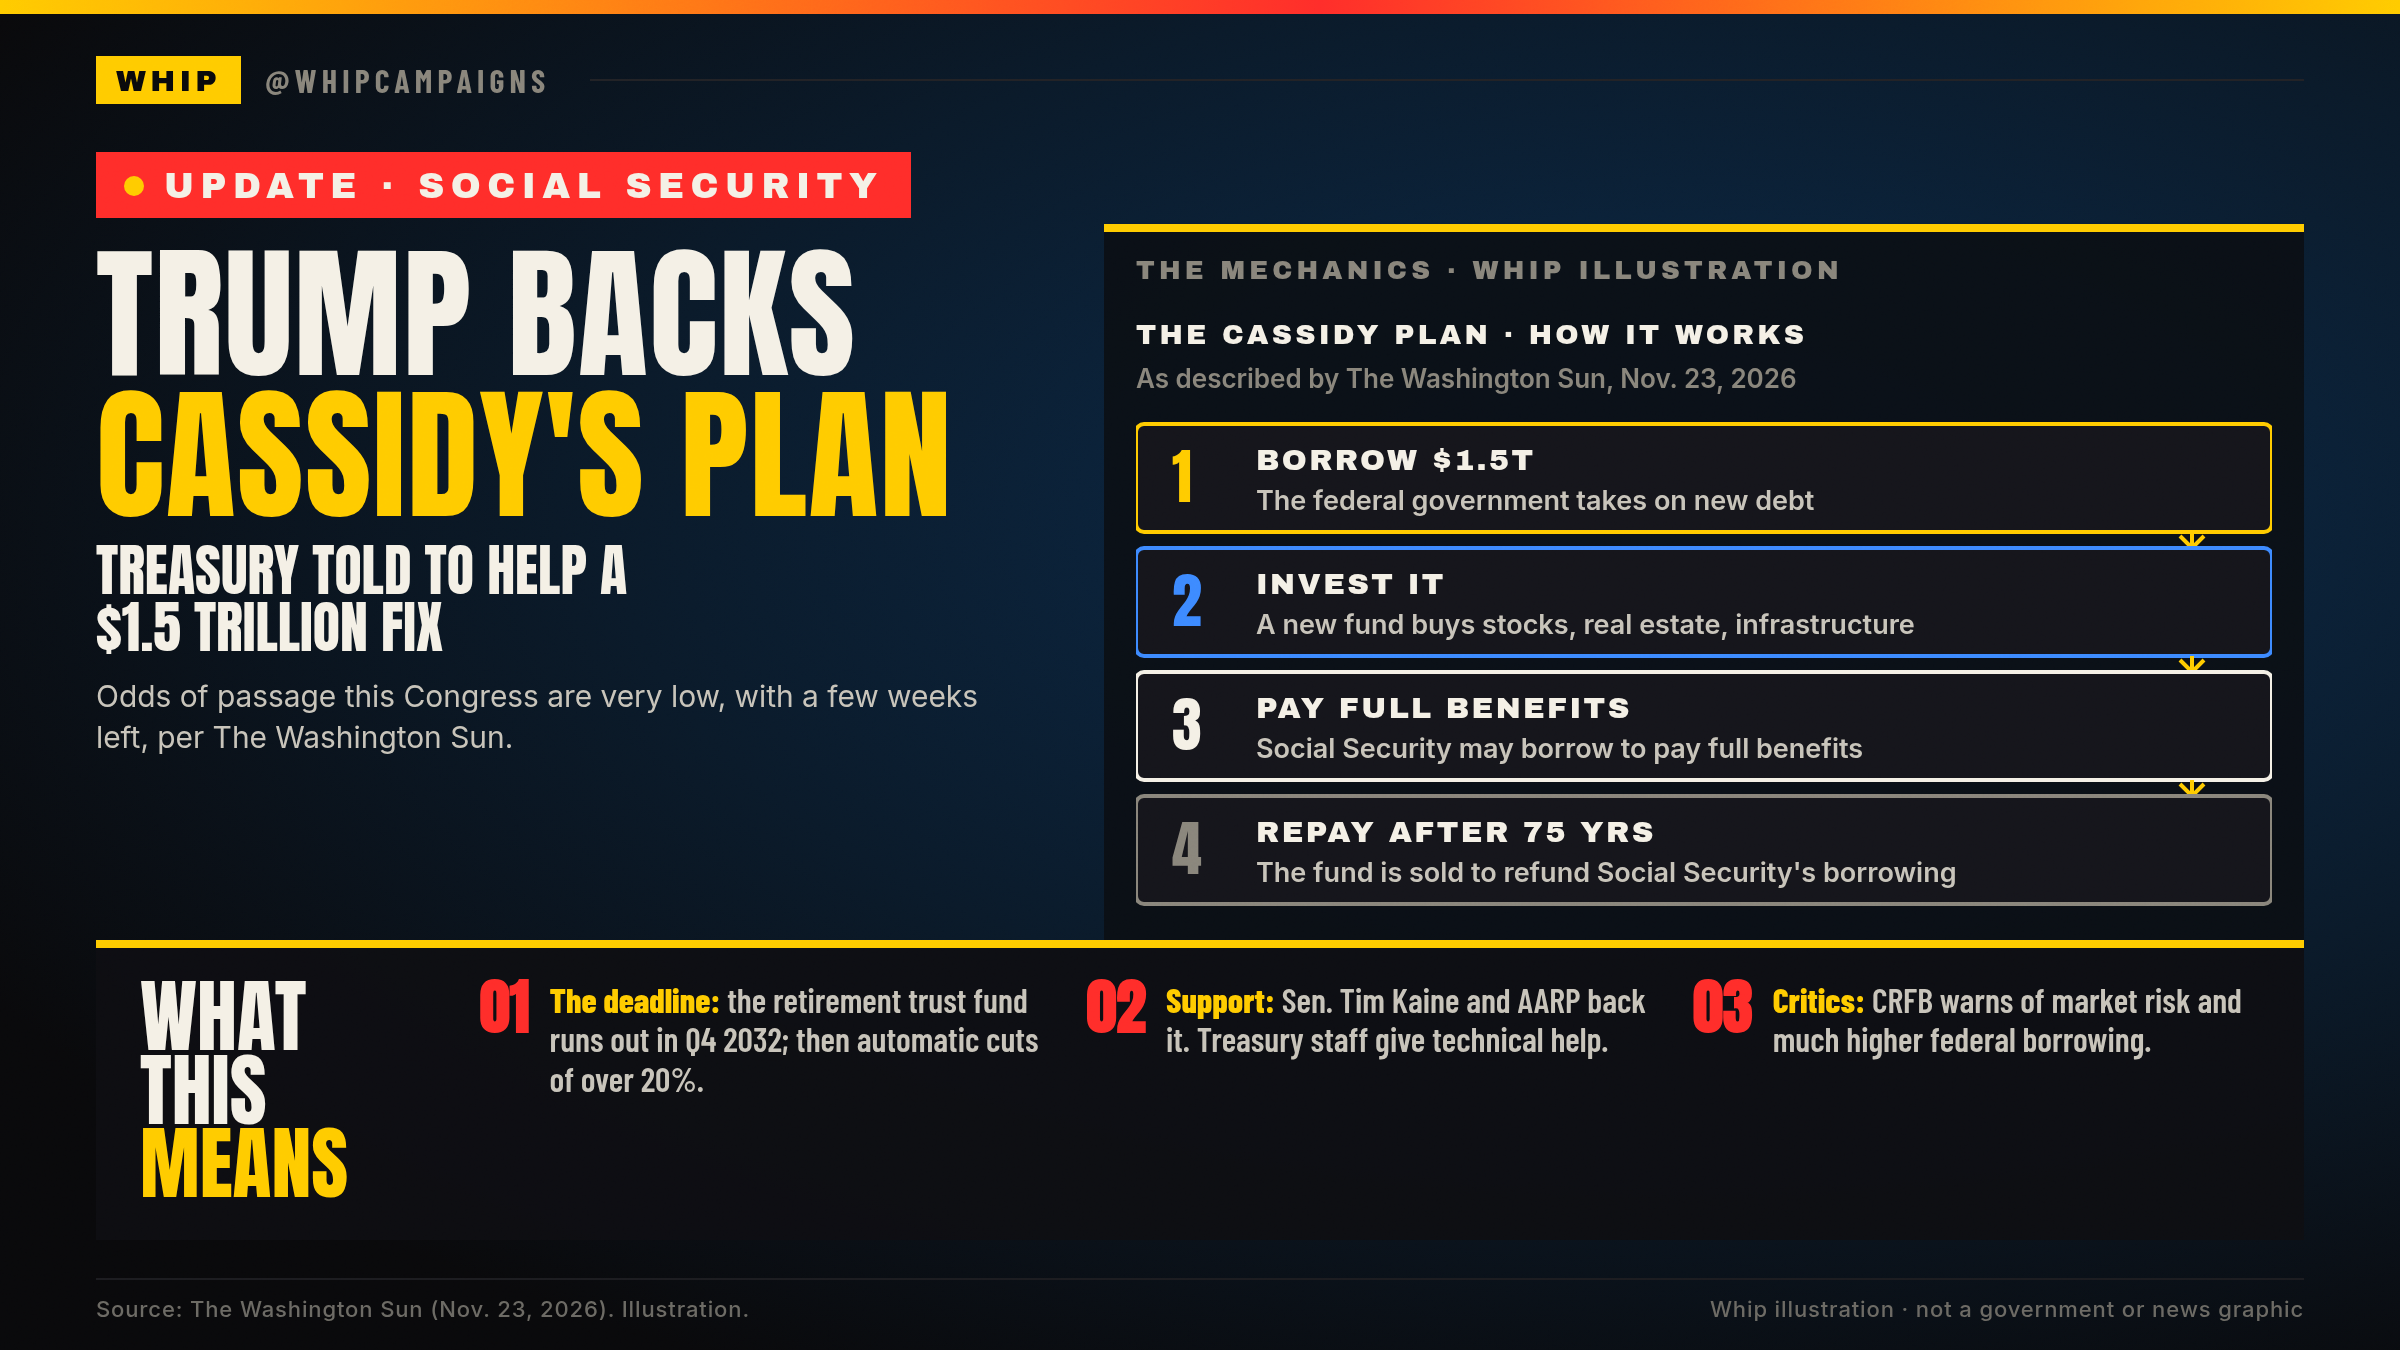
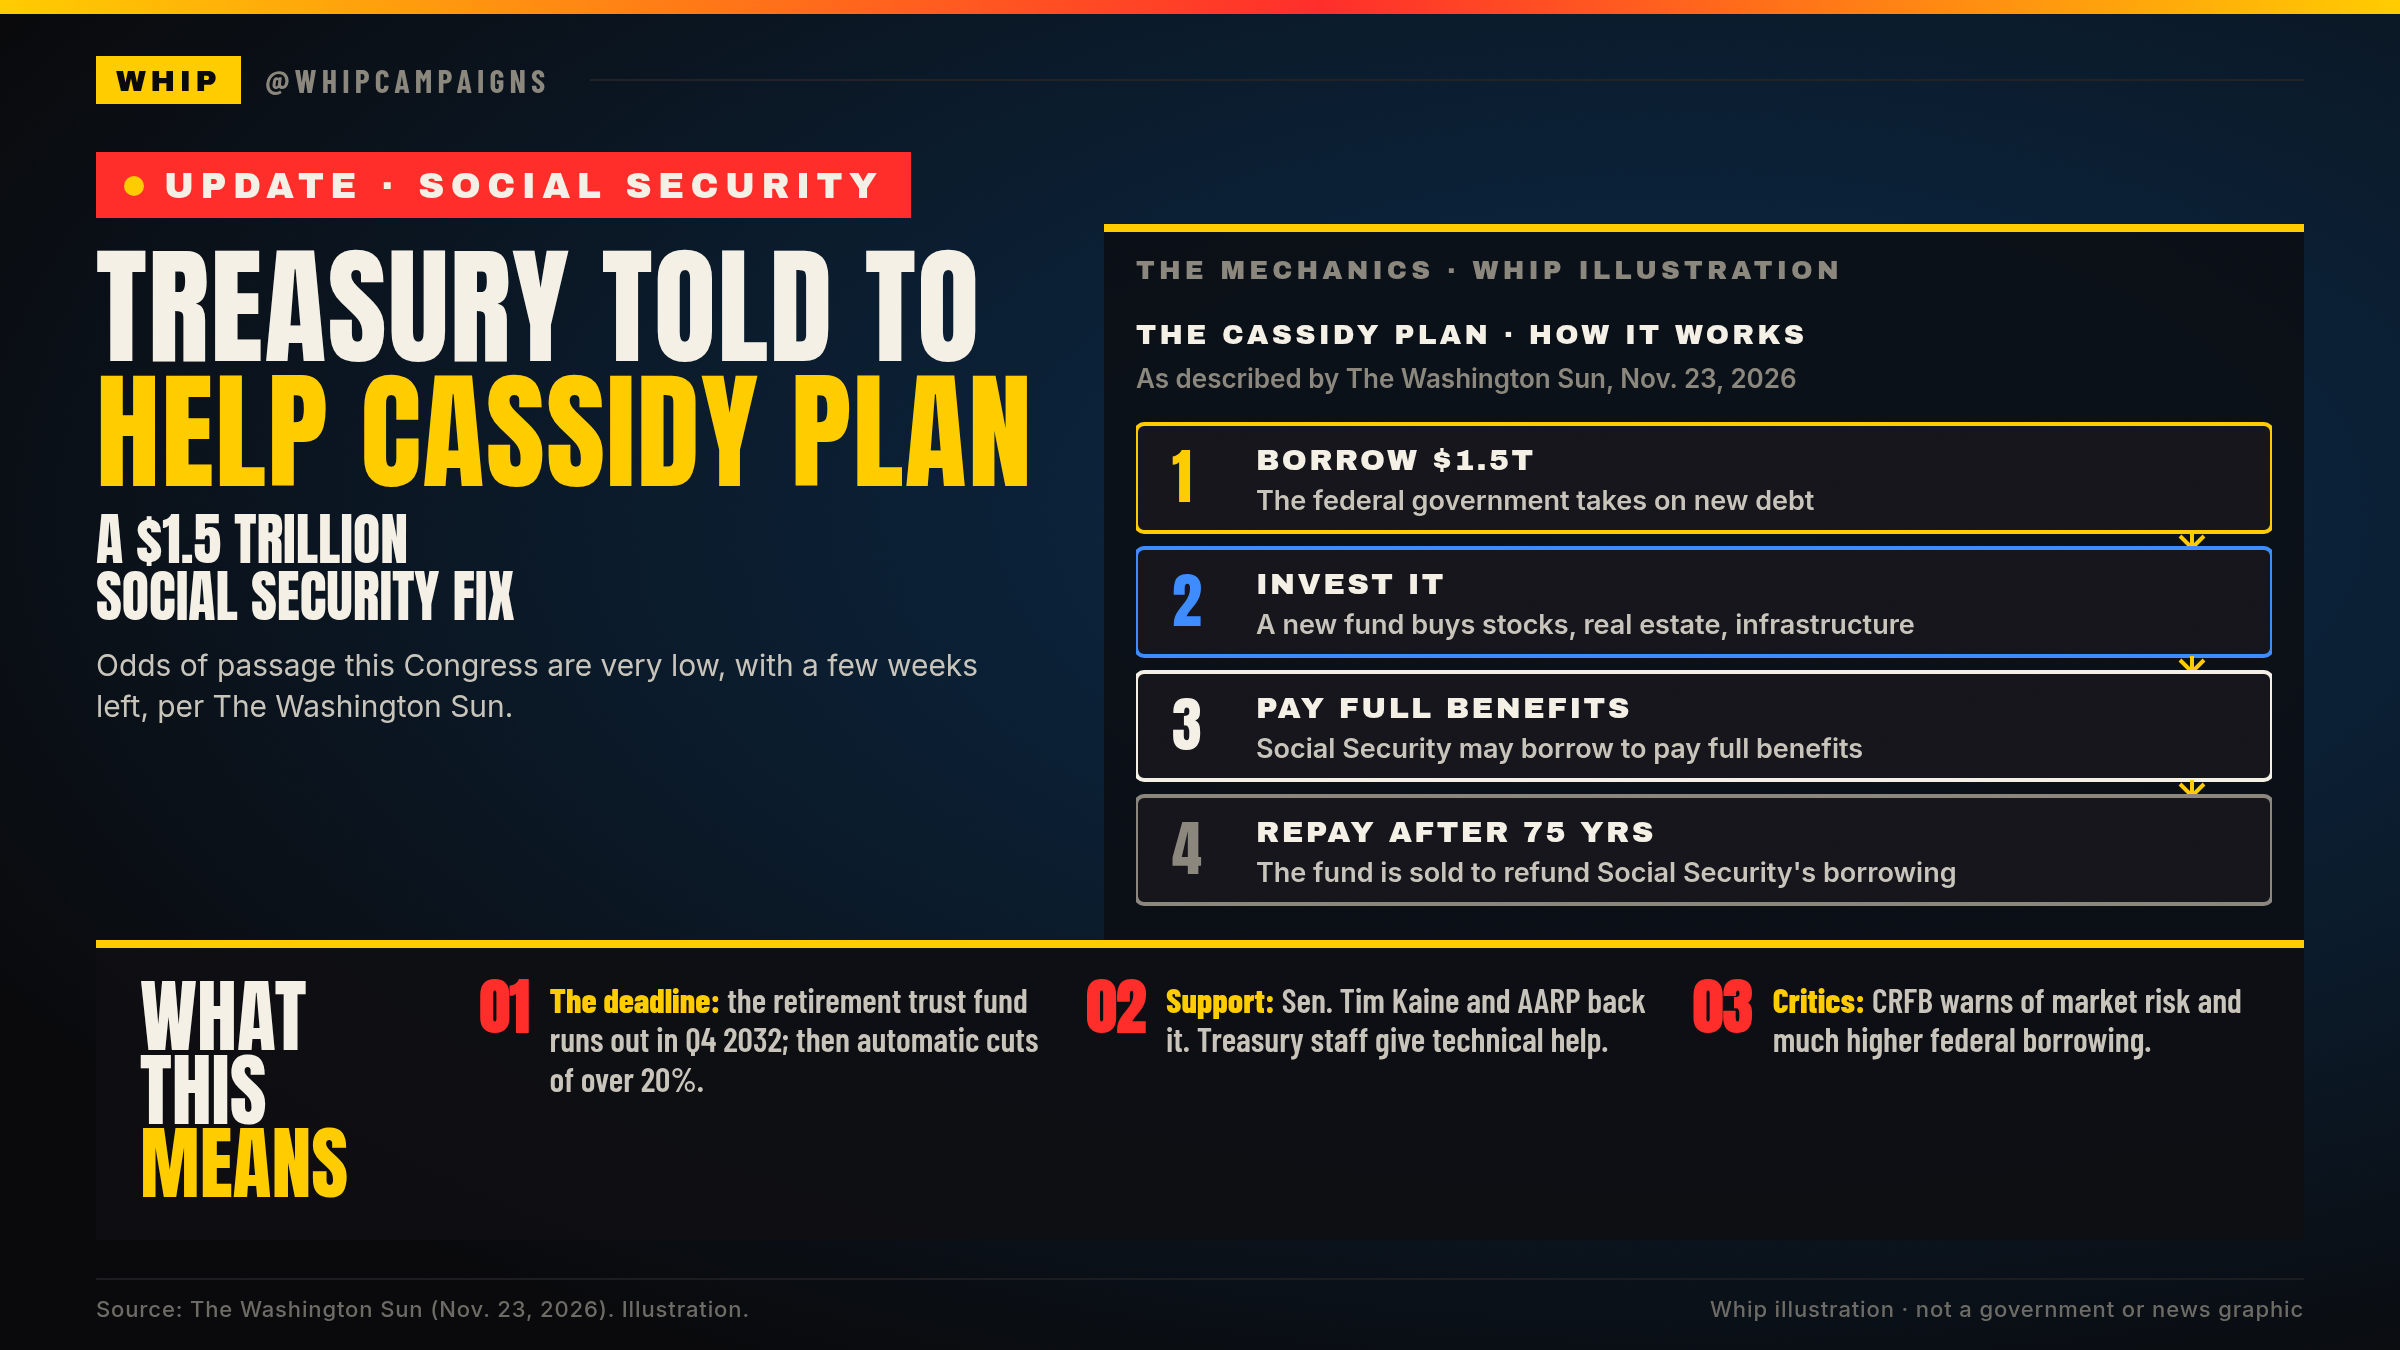
Social Security UPDATE card: Treasury told to help Cassidy plan (Nov 23, 2026)

Changed region(s): [[0.0312, 0.1867, 0.4375, 0.56]]

diff --git a/breaking/2026-11-23-socsec-cassidy-trump/make_card.py b/breaking/2026-11-23-socsec-cassidy-trump/make_card.py
@@ -31,8 +31,8 @@ html = wrap(f"""
 <div class="footer"><span>Source: The Washington Sun (Nov. 23, 2026). Illustration.</span><span>Whip illustration &middot; not a government or news graphic</span></div>
 <div class="tag"><span class="dot"></span>UPDATE &middot; SOCIAL SECURITY</div>
 <div class="left">
-  <div class="h1">TRUMP BACKS<br><span class="y">CASSIDY'S PLAN</span></div>
-  <div class="h2">TREASURY TOLD TO HELP A<br>$1.5 TRILLION FIX</div>
+  <div class="h1">TREASURY TOLD TO<br><span class="y">HELP CASSIDY PLAN</span></div>
+  <div class="h2">A $1.5 TRILLION<br>SOCIAL SECURITY FIX</div>
   <div class="att">Odds of passage this Congress are very low, with a few weeks left, per The Washington Sun.</div>
 </div>
 <div class="panel">
@@ -50,7 +50,7 @@ body{background:radial-gradient(ellipse at 70% 38%,#0b2a4a 0%,#0a1a2a 45%,#09090
 .tag{position:absolute;top:76px;left:48px;display:flex;align-items:center;gap:10px;background:#ff2d2a;color:#f4f0e6;font-family:'Archivo Black',sans-serif;font-size:18px;letter-spacing:.18em;padding:7px 14px 6px;z-index:5}
 .dot{width:10px;height:10px;border-radius:50%;background:#ffcc00;display:inline-block}
 .left{position:absolute;left:48px;top:122px;width:500px;z-index:5}
-.h1{font-family:'Anton',sans-serif;font-size:72px;line-height:.98;color:#f4f0e6;letter-spacing:.01em}
+.h1{font-family:'Anton',sans-serif;font-size:64px;line-height:.98;color:#f4f0e6;letter-spacing:.01em}
 .h2{font-family:'Anton',sans-serif;font-size:28px;line-height:1.02;color:#f4f0e6;margin-top:8px}
 .att{font-family:'Inter',sans-serif;font-size:15px;line-height:1.35;color:#c8c4ba;margin-top:10px;width:470px}
 .y{color:#ffcc00}

diff --git a/breaking/2026-11-23-socsec-cassidy-trump/tweet.md b/breaking/2026-11-23-socsec-cassidy-trump/tweet.md
@@ -1,13 +1,3 @@
-# UPDATE: Trump tells Treasury to help Cassidy's $1.5T Social Security plan (Nov 23, 2026)
+Medicare & Social Security solvency attention was down 5% as of Nov. 21, per Whip.
 
-Draft (not posted). Target: reply to our Nov 18 Social Security thread https://x.com/whipcampaigns/status/2123136797085520246 (via X), or standalone via Buffer. Attach card.png. No hook.
-
-Text (len 278):
-
-UPDATE: President Trump told Treasury to help Sen. Bill Cassidy's plan to borrow $1.5 trillion, invest it in stocks and other assets, and use the returns to help pay Social Security benefits, per The Washington Sun.
-
-Passage this Congress is a long shot. What should come first?
-
-Sources:
-- The Washington Sun, Jeff Stein, Nov 23, 2026 5:00 AM: https://www.washingtonsun.com/economy/trump-help-bill-cassidys-social-security-reform
-  (Trump instructed Treasury to assist; borrow $1.5T, invest in stocks/real estate/infrastructure; SS may borrow to pay full benefits; fund sold after 75 years; odds very low this Congress; OASI runs out Q4 2032, cuts of more than 20%; Kaine and AARP support; CRFB's Goldwein cites market risk; White House: administration routinely works with lawmakers)
+UPDATE: Trump told Treasury to help Sen. Bill Cassidy's plan to borrow and invest $1.5T to help pay benefits, per The Washington Sun. Critics warn of market risk and debt; passage is a long shot.
